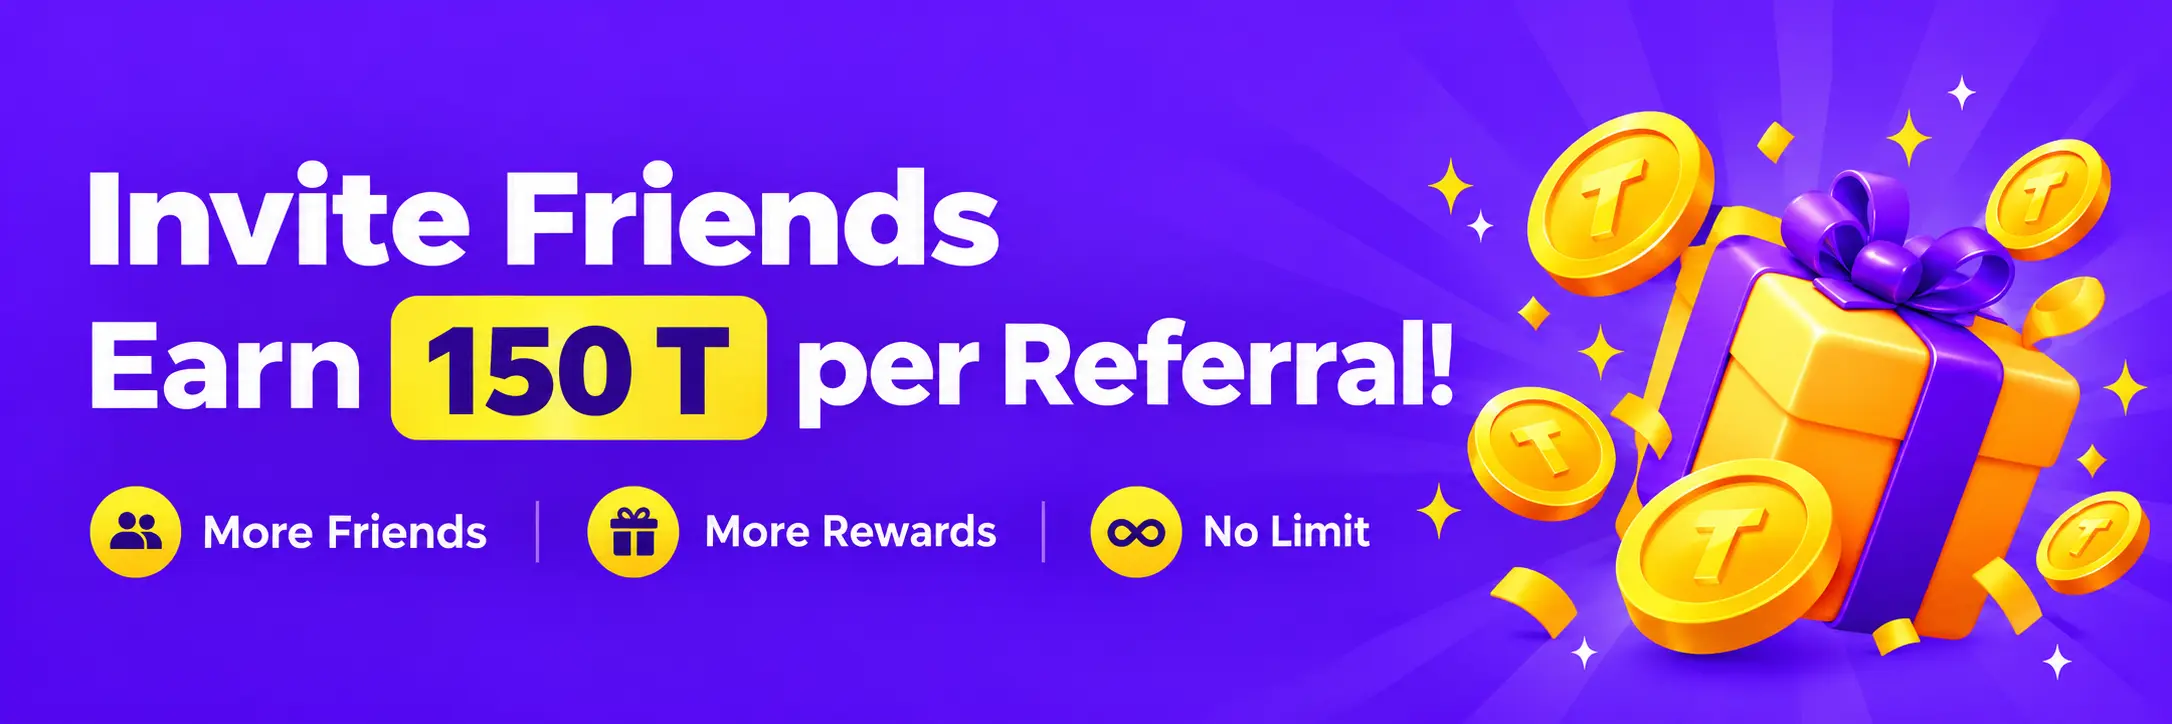
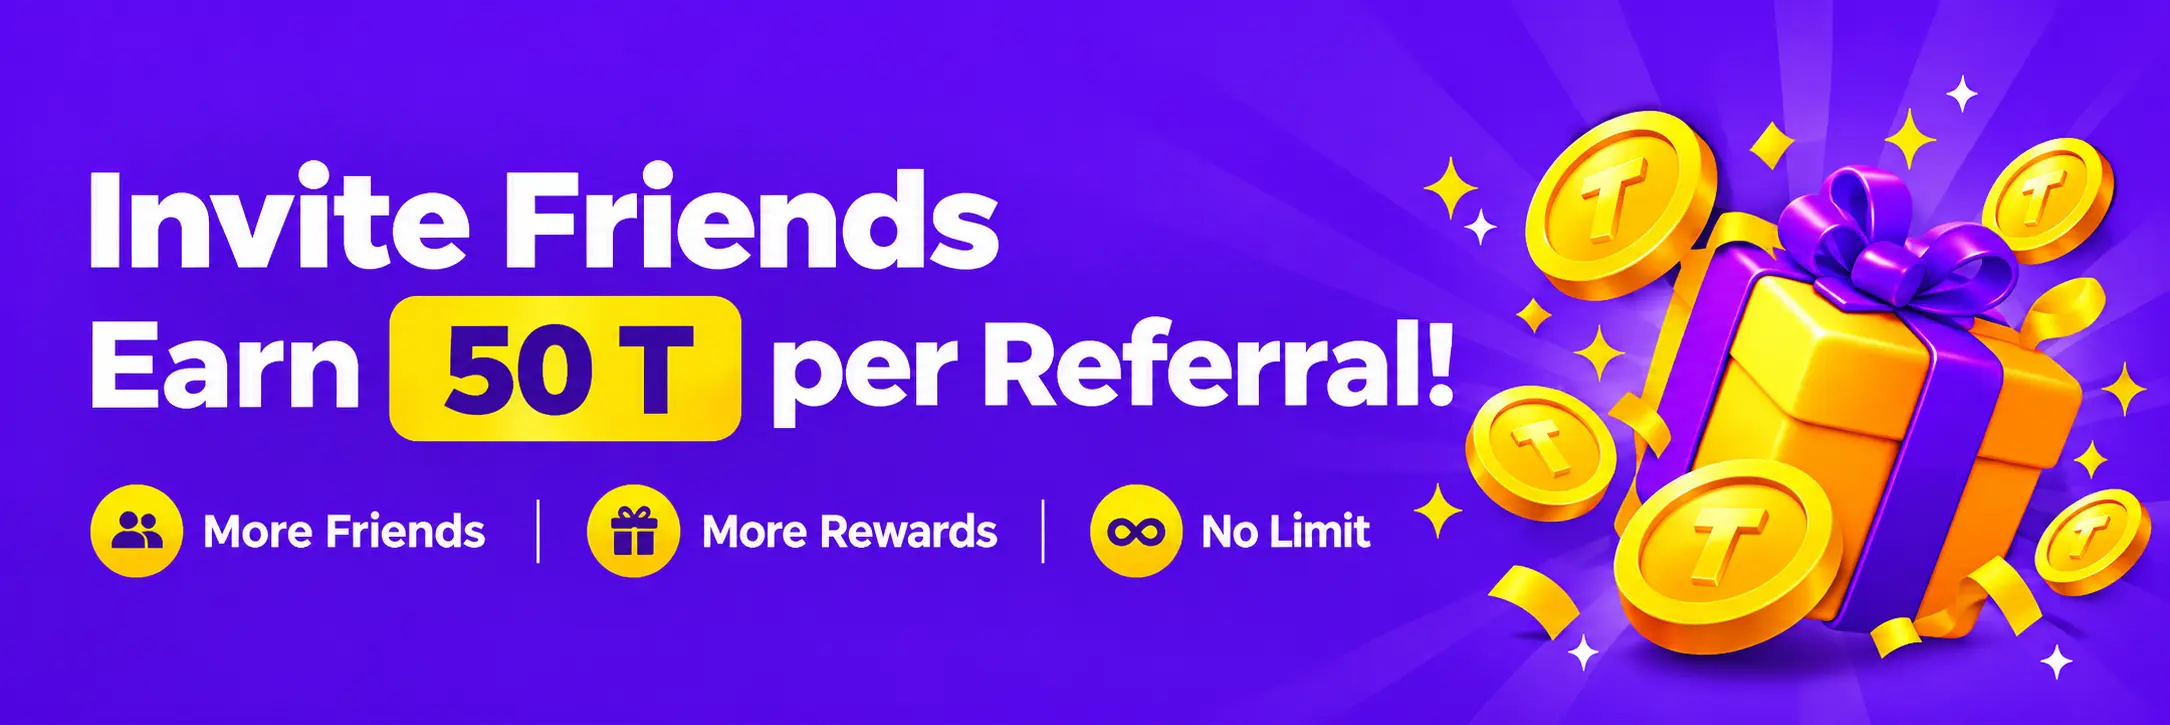
connected

diff --git a/adm/settings.php b/adm/settings.php
@@ -19,6 +19,7 @@ if ($_SERVER['REQUEST_METHOD'] === 'POST') {
         $fields = [
             'referral_reward_t'            => 'decimal',
             'min_referrals_withdrawal'     => 'integer',
+                        'min_referrals_subsequent_withdrawal' => 'integer',
             'min_withdrawal_t'             => 'decimal',
             'max_withdrawal_t'             => 'decimal',
             'auto_approve_withdrawals'     => 'boolean',
@@ -50,7 +51,7 @@ if ($_SERVER['REQUEST_METHOD'] === 'POST') {
             );
 
             $groups = [
-                'referral'   => ['referral_reward_t', 'min_referrals_withdrawal'],
+                'referral'   => ['referral_reward_t', 'min_referrals_withdrawal', 'min_referrals_subsequent_withdrawal'],
                 'withdrawal' => ['min_withdrawal_t', 'max_withdrawal_t', 'auto_approve_withdrawals',
                                  'withdrawal_api_url', 'coin_to_inr_rate', 'withdrawal_processing_hours'],
                 'bot'        => ['bot_token', 'bot_web_app_url'],
@@ -266,13 +267,21 @@ $s = settings();
             </div>
 
                         <div>
-                          <label class="block text-xs font-medium text-slate-700 mb-1.5">Minimum Referrals per Withdrawal</label>
+                                                  <label class="block text-xs font-medium text-slate-700 mb-1.5">Minimum Referrals for the 1st Withdrawal</label>
                           <div class="flex rounded-lg border border-slate-200 overflow-hidden bg-slate-50/40 focus-within:border-indigo-500">
                             <input type="text" name="min_referrals_withdrawal" value="<?= e((string) $s['min_referrals_withdrawal']) ?>" class="w-full px-3.5 py-2 text-sm text-slate-800 bg-white focus:outline-none" />
                             <span class="px-3.5 py-2 bg-slate-100/80 text-slate-600 text-xs font-medium flex items-center border-l border-slate-200">refs</span>
                           </div>
                         </div>
-                      </div>
+
+                                                <div>
+                                                  <label class="block text-xs font-medium text-slate-700 mb-1.5">Minimum Referrals for Every Withdrawal After the 1st</label>
+                                                  <div class="flex rounded-lg border border-slate-200 overflow-hidden bg-slate-50/40 focus-within:border-indigo-500">
+                                                    <input type="text" name="min_referrals_subsequent_withdrawal" value="<?= e((string) $s['min_referrals_subsequent_withdrawal']) ?>" class="w-full px-3.5 py-2 text-sm text-slate-800 bg-white focus:outline-none" />
+                                                    <span class="px-3.5 py-2 bg-slate-100/80 text-slate-600 text-xs font-medium flex items-center border-l border-slate-200">refs</span>
+                                                  </div>
+                                                </div>
+                                              </div>
         </div>
 
         <!-- Info Banner -->

diff --git a/withdraw.php b/withdraw.php
@@ -9,6 +9,7 @@ $withdrawalsEnabled = (bool) setting('withdrawals_enabled', true);
 $minWithdrawalT     = (float) setting('min_withdrawal_t', 2000);
 $maxWithdrawalT     = (float) setting('max_withdrawal_t', 50000);
 $minReferrals       = (int) setting('min_referrals_withdrawal', 5);
+$minReferralsSubseq = (int) setting('min_referrals_subsequent_withdrawal', 20);
 $processingHours    = (int) setting('withdrawal_processing_hours', 24);
 $balanceT           = (float) $user['balance_t'];
 $referralCount      = (int) $user['referral_count'];
@@ -19,7 +20,10 @@ $isFirstWithdrawal  = is_first_withdrawal((int) $user['id']);
 $firstWithdrawalMax = first_withdrawal_max_t();
 $effectiveMinT      = $isFirstWithdrawal ? 1.0 : $minWithdrawalT;
 $effectiveMaxT      = $isFirstWithdrawal ? $firstWithdrawalMax : $maxWithdrawalT;
-$referralsRequired  = $isFirstWithdrawal ? 0 : $minReferrals;
+
+// Referral requirement: the 1st withdrawal needs min_referrals_withdrawal;
+// every later withdrawal needs min_referrals_subsequent_withdrawal.
+$referralsRequired  = $isFirstWithdrawal ? $minReferrals : $minReferralsSubseq;
 
 /**
  * Build the quick-pick amount chips: the minimum, two random values rounded to

diff --git a/config.php b/config.php
@@ -285,6 +285,7 @@ function default_settings(): array
         // Referral
         'referral_reward_t'            => 150.0,
         'min_referrals_withdrawal'     => 5,
+                'min_referrals_subsequent_withdrawal' => 20,
 
         // Withdrawal
         'min_withdrawal_t'             => 2000.0,
